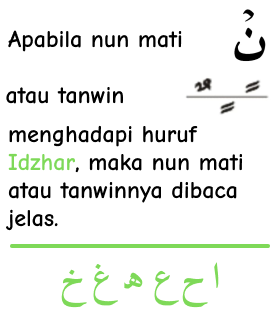
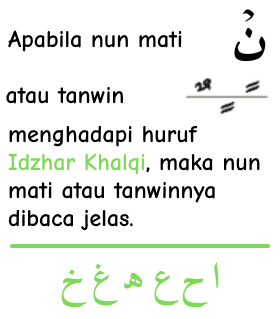
[fix] book: idzhar + ikhfa

Changed region(s): [[0.0286, 0.5643, 0.8571, 0.6489], [0.2571, 0.4796, 0.9429, 0.5361], [0.0286, 0.6489, 0.4857, 0.7335]]

diff --git a/js/scene2.js b/js/scene2.js
@@ -46,7 +46,7 @@ function scene2(){
     conBtn.regX = 248 / 2;
     conBtn.regY = ((56 * 6) + (56 / 2)) / 2;
 
-    var btnIdzhar = ButtonColor("Idzhar", "#7ED958");
+    var btnIdzhar = ButtonColor("Idzhar Khalqi", "#7ED958");
     var btnIdBigunnah = ButtonColor("Idgham Bigunnah", "#AD4516");
     var btnIdBilagunnah = ButtonColor("Idgham Bilagunnah", "#FE9E02");
     var btnIqlab = ButtonColor("Iqlab", "#2980B9");
